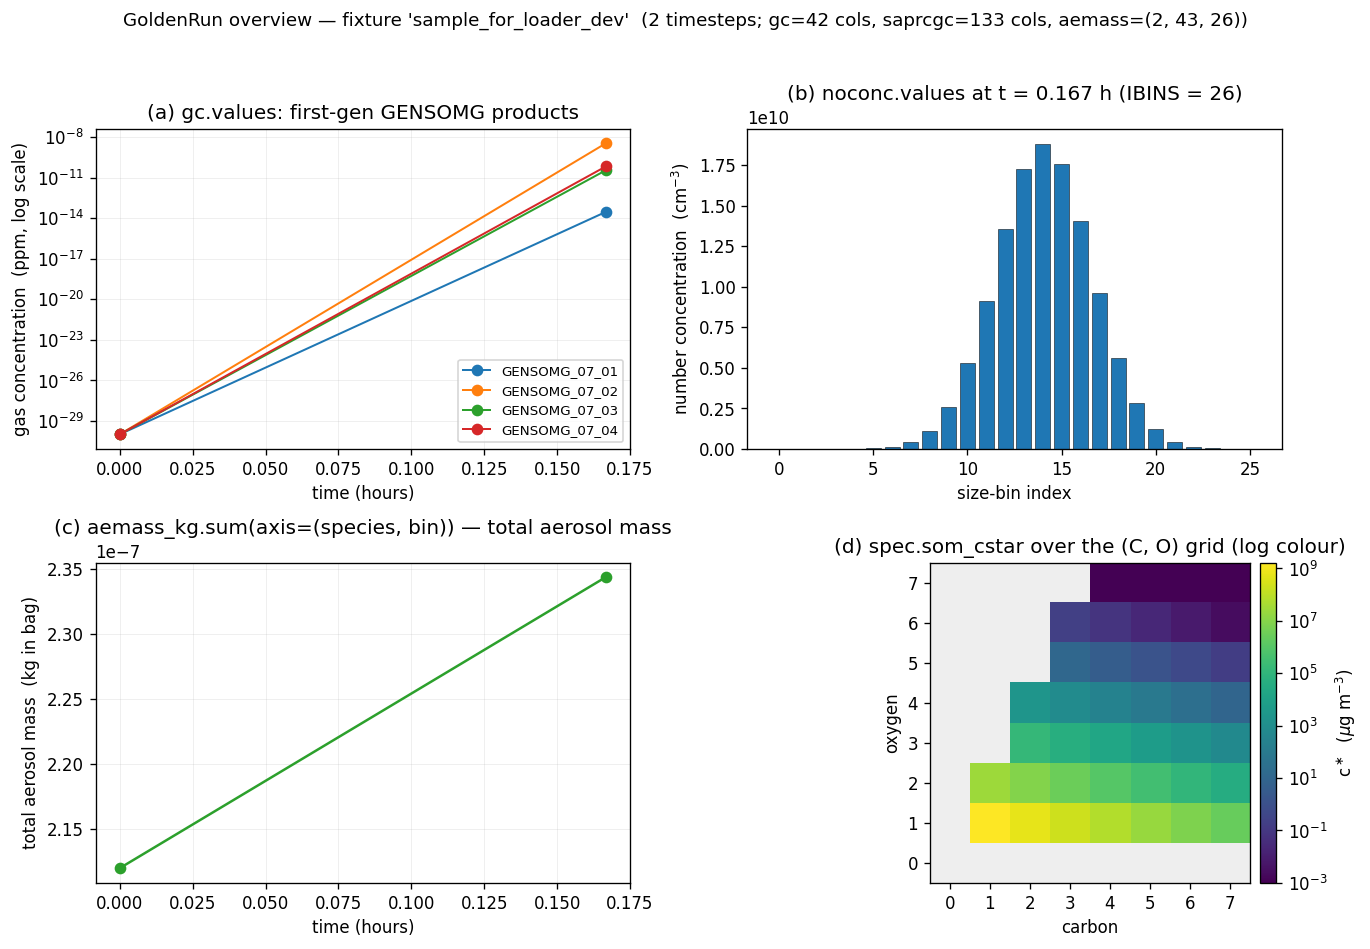
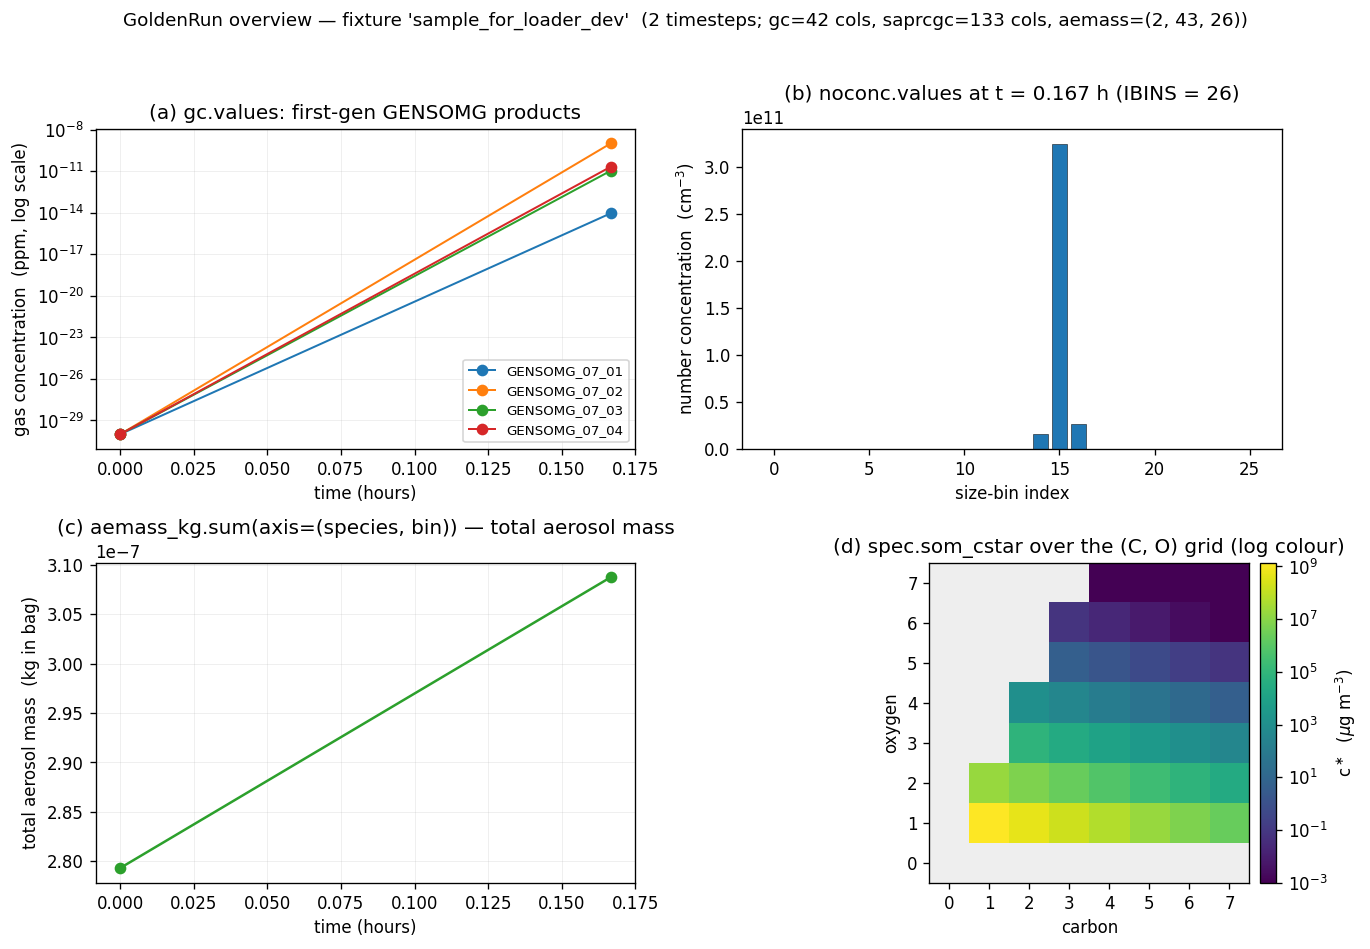
Refresh sample_run fixture from REAL*8 INTEGR2 Fortran build
Bumps the som-tomas-fortran submodule to the real8-integr2 branch
and regenerates tests/fixtures/sample_run/ from a Fortran build that
runs INTEGR2 with rtol = 1e-10 in double precision.

Same run inputs as before (GENVOC = 0.05 ppm, OH = 1.5e6 molec/cm3,
T = 298 K, P = 101325 Pa, no aerosol/walls, t = 10 min). The
_saprcgc.dat values shift up by 4-22% on cascade species relative to
the previous loose-Fortran fixture; this matches the
double-precision JAX reference at rtol=1e-10 to ~0.3% median across
35+ species.

C0.6/C0.7 figures regenerated so the rendered overview and
DiffReport demo reflect the new fixture.

diff --git a/CHANGELOG.md b/CHANGELOG.md
@@ -21,6 +21,9 @@ and this project adheres to [Semantic Versioning](https://semver.org/spec/v2.0.0
 - **C0.7 — compare primitives**: `atmos_jax_common.compare` provides tolerance-aware trajectory comparison: `relative_l2(a, b)` per-species relative L2 (atol-floored to keep zero-reference columns finite), `per_species_correlation(a, b)` Pearson per column (returns 1.0 by convention for constant columns to avoid NaN propagation), `final_time_error(a, b)` last-row absolute and relative error, plus `carbon_balance(conc, carbon_counts)` and `carbon_balance_drift(conc, carbon_counts)` for conservation sanity. `compare_trajectories(a, b, names)` bundles all three metrics into a `DiffReport` dataclass with `passes(l2_tol=, correlation_min=, final_rel_tol=)` (defaults track the master plan's ≤0.1% / ≥0.999 faithfulness bar), `worst_species(by=...)`, and `summary()` for human-readable error output. 23 unit tests cover identity / scale / zero / shape / correlation edge cases (constant column, anti-correlation, ULP-level floating-point clamp), `carbon_balance` linearity, conserving-vs-lossy drift detection, and `DiffReport` threshold overrides. Total: **129 tests pass**.
 - **atmos-jax-common figures retrofit (C0.6 + C0.7)**: backfilled matplotlib diagnostics for the goldens loader and compare primitives. `scripts/make_c0.6_figures.py` renders a 4-panel overview of a parsed `GoldenRun` (gas-phase trajectories, per-bin number concentration, total aerosol mass, SOM (C, O) grid coloured by c\*). `scripts/make_c0.7_figures.py` renders a `DiffReport` demo: synthetic Fortran-vs-JAX comparison with one biased species, showing the per-species L2 bar chart with tolerance line and the worst-species overlay. Adds matplotlib (`>=3.8`) to `[project.optional-dependencies].dev`; ruff per-file ignore for `scripts/make_*_figures.py`.
 
+### Changed
+- **Sample-run fixture refresh — REAL\*8 INTEGR2 build**: bumped `third_party/som-tomas-fortran` to a build that promotes the `INTEGR2` chemistry path (working arrays, the `DIFF` callback, `SAPRCGC` storage, `TIN`/`TOUT`) from `REAL*4` to `REAL*8` and tightens the predictor/corrector convergence criterion (`E3`) from `1e-3` to `1e-10`. Regenerated `tests/fixtures/sample_run/` from this build using the same input as before (10-min gas-phase-only run, GENVOC = 0.05 ppm, OH = 1.5×10⁶ molec/cm³, T = 298 K, P = 101325 Pa, no aerosol, no wall losses). Cascade-species `_saprcgc.dat` values shift up by 4-22% relative to the previous loose-Fortran fixture; this matches the JAX/diffrax double-precision reference at `rtol=1e-10` to within ~0.3% median across 35+ species. `_kw.dat` is bit-identical (single zero row); `_aemass.dat`, `_gc.dat`, `_noconc.dat`, `_saprcgc.dat`, `_spec.dat`, `_tau.dat`, `_vl.dat` all updated. Regenerated C0.6/C0.7 figures so the visuals reflect the new fixture.
+
 ## [0.1.0] — planned
 
 First usable release. Gate: all scientific model repos (`som-jax`, `saprc-jax`, `tomas-jax`) can load golden outputs from this package and run regression tests.
